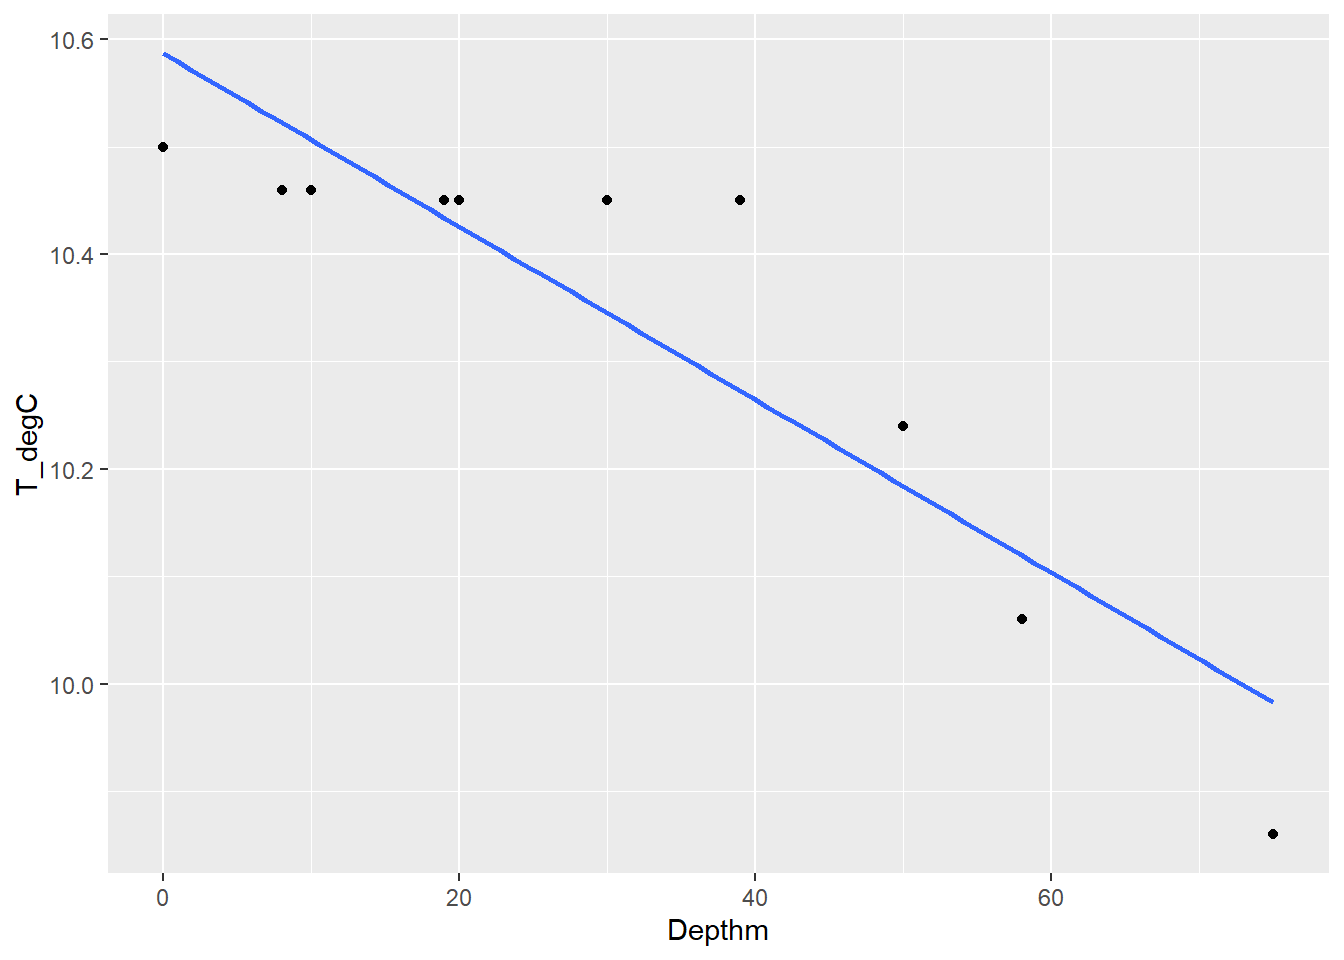
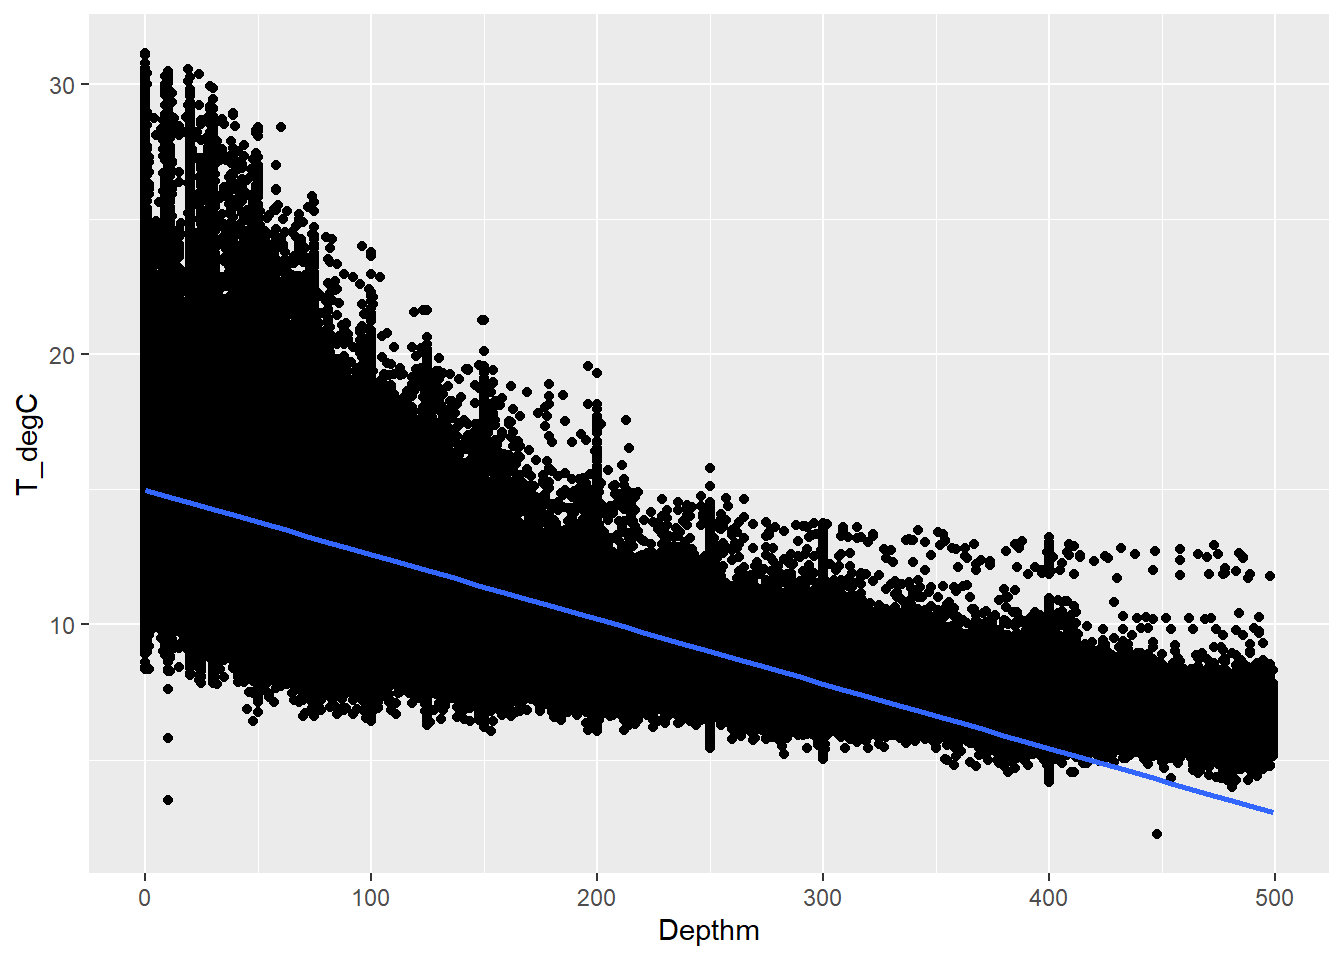
tests

diff --git a/BlogPosts.html b/BlogPosts.html
@@ -324,7 +324,6 @@ library(readr)</code></pre>
 filter(Depthm &lt; 500)
 
 CalCOFI %&gt;%
-head(10) %&gt;%
 ggplot(aes(Depthm, T_degC)) + geom_point() + geom_smooth(method = &quot;lm&quot;, se = FALSE)</code></pre>
 <p><img src="BlogPosts_files/figure-html/unnamed-chunk-3-1.png" width="672" /></p>
 </div>
